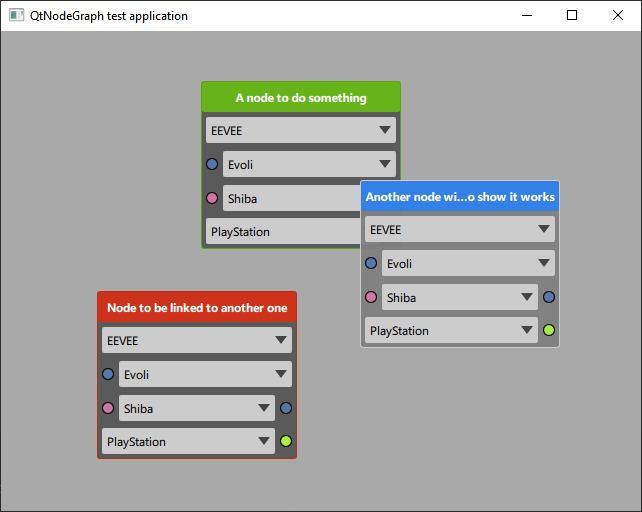
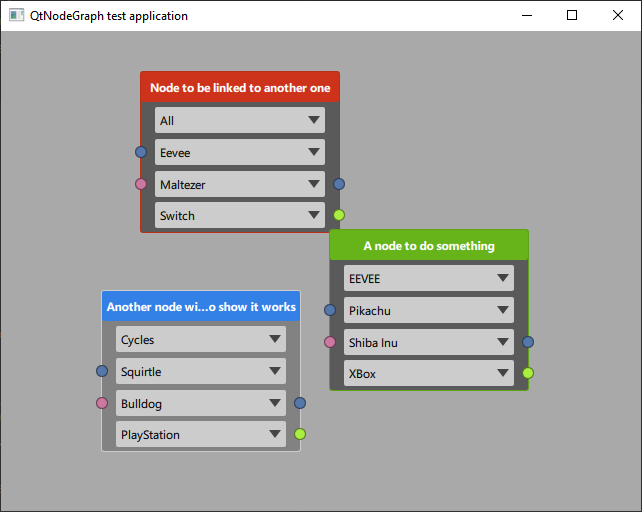
Align widgets on grid

Changed region(s): [[0.1869, 0.125, 0.8723, 0.7812], [0.1246, 0.5625, 0.4984, 0.9062]]

diff --git a/NodeLibrary/Node.qml b/NodeLibrary/Node.qml
@@ -107,7 +107,7 @@ Item {
 
             columns: 1
             rows: 4
-            rowSpacing: 8
+            rowSpacing: 6
 
             anchors.top: nodeCaptionBackground.bottom
             anchors.bottom: nodeShape.bottom
@@ -140,10 +140,10 @@ Item {
                 widgetSource: '../Content/ComboBoxNodeWidget.qml'
                 widgetModel: ListModel {
                     id: pokemonModel
-                    ListElement { text: "Evoli" }
-                    ListElement { text: "Carapuce" }
-                    ListElement { text: "Germignon" }
                     ListElement { text: "Pikachu" }
+                    ListElement { text: "Squirtle" }
+                    ListElement { text: "Chikorita" }
+                    ListElement { text: "Eevee" }
                 }
             }
 
@@ -158,9 +158,9 @@ Item {
                 widgetSource: '../Content/ComboBoxNodeWidget.qml'
                 widgetModel: ListModel {
                     id: dogModel
-                    ListElement { text: "Shiba" }
-                    ListElement { text: "Bichon" }
-                    ListElement { text: "Caniche" }
+                    ListElement { text: "Shiba Inu" }
+                    ListElement { text: "Maltezer" }
+                    ListElement { text: "Poodle" }
                     ListElement { text: "Bulldog" }
                     ListElement { text: "Yorkshire" }
                 }

diff --git a/NodeLibrary/Widgets/Base/NoPortNodeWidget.qml b/NodeLibrary/Widgets/Base/NoPortNodeWidget.qml
@@ -5,30 +5,6 @@ import QtQuick.Layouts 1.15
 import "../../../NodeLibrary"
 import "../Content"
 
-// Widget without any connection to other nodes.
-// How to use (example):
-/*
-    NoPortNodeWidget {
-        id: renderEngineSelectWidget
-        widgetSource: '../Content/ComboBoxNodeWidget.qml'
-        parentLayout: myLayout
-
-        property var model: ListModel {
-            id: renderEngineModel
-            ListElement { text: "EEVEE" }
-            ListElement { text: "Cycles" }
-            ListElement { text: "All" }
-        }
-
-        onWidgetChanged: {
-            if (widget === null) {
-                return;
-            }
-
-            widget.model = model;
-        }
-    }
-*/
 Item {
     id: widgetRoot
     Layout.fillWidth: true
@@ -42,12 +18,15 @@ Item {
 
     GridLayout {
         columns: 1
+        columnSpacing: 10
         anchors.fill: parent
 
         Item {
             id: widgetContainer
             Layout.fillHeight: true
             Layout.fillWidth: true
+
+            Layout.leftMargin: 10
             Layout.rightMargin: Layout.leftMargin
         }
     }

diff --git a/NodeLibrary/Widgets/Base/InputOutputNodeWidget.qml b/NodeLibrary/Widgets/Base/InputOutputNodeWidget.qml
@@ -19,20 +19,24 @@ Item {
 
     GridLayout {
         columns: 3
+        columnSpacing: 10
         anchors.fill: parent
 
         Port {
             id: inputPort
+            Layout.margins: -10
         }
 
         Item {
             id: widgetContainer
             Layout.fillHeight: true
             Layout.fillWidth: true
+            Layout.rightMargin: -2
         }
 
         Port {
             id: outputPort
+            Layout.rightMargin: -10
         }
     }
 

diff --git a/NodeLibrary/Widgets/Base/OutputNodeWidget.qml b/NodeLibrary/Widgets/Base/OutputNodeWidget.qml
@@ -18,16 +18,20 @@ Item {
 
     GridLayout {
         columns: 2
+        columnSpacing: 10
         anchors.fill: parent
 
         Item {
             id: widgetContainer
             Layout.fillHeight: true
             Layout.fillWidth: true
+            Layout.leftMargin: 10
+            Layout.rightMargin: -2
         }
 
         Port {
             id: outputPort
+            Layout.rightMargin: -10
         }
     }
 

diff --git a/NodeLibrary/Widgets/Base/InputNodeWidget.qml b/NodeLibrary/Widgets/Base/InputNodeWidget.qml
@@ -18,16 +18,19 @@ Item {
 
     GridLayout {
         columns: 2
+        columnSpacing: 10
         anchors.fill: parent
 
         Port {
             id: inputPort
+            Layout.margins: -10
         }
 
         Item {
             id: widgetContainer
             Layout.fillHeight: true
             Layout.fillWidth: true
+            Layout.rightMargin: 10
         }
     }
 

diff --git a/NodeLibrary/Port.qml b/NodeLibrary/Port.qml
@@ -8,5 +8,5 @@ Rectangle {
     radius: width
 
     border.width: 1
-    border.color: Qt.rgba(0,0,0,1)
+    border.color: color.darker(2)
 }
